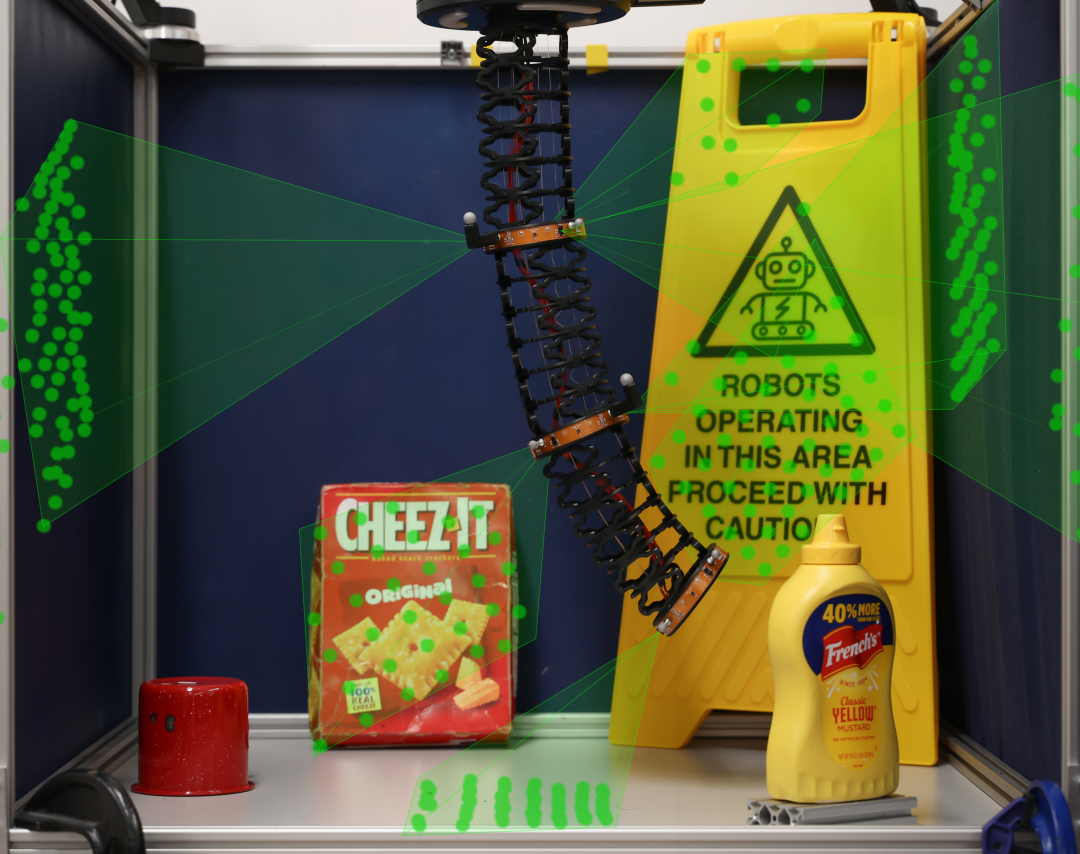
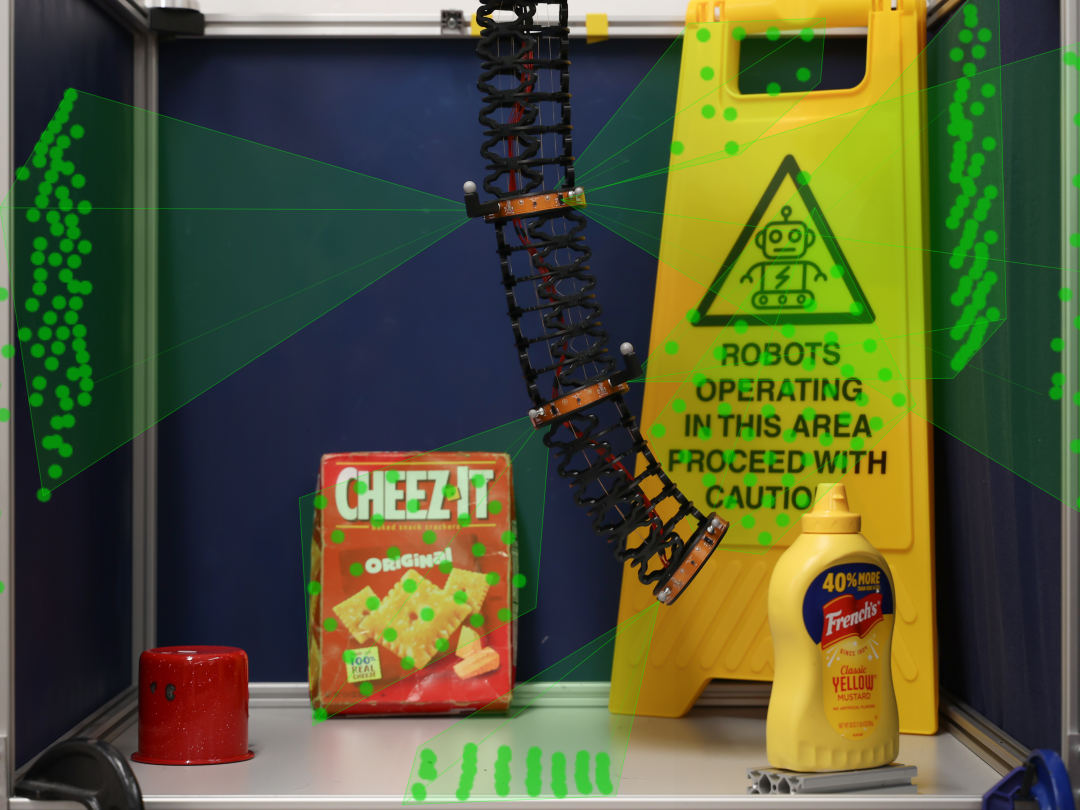
Changes

diff --git a/src/components/Banner.tsx b/src/components/Banner.tsx
@@ -35,7 +35,6 @@ export const Banner = () => {
                         sx={{ mt: 4, width: { xs: 1, sm: 'auto' } }}
                         variant='contained'
                         href="/cv.pdf"
-                        download
                         target="_blank"
                         startIcon={<ArticleRounded />}
                     >
@@ -76,59 +75,9 @@ export const Banner = () => {
                     About me
                 </Typography>
                 <Typography sx={{ fontSize: '1.2em', fontWeight: 100 }}>
-                    I am a fourth year PhD candidate in the <a href="http://asrl.utias.utoronto.ca/" target="_blank" rel="noopener noreferrer">Autonomous Space Robotics Lab</a> and the <a href="https://crl.utm.utoronto.ca/" target="_blank" rel="noopener noreferrer">Continuum Robotics Lab</a> at the University of Toronto, supervised jointly by Professors Timothy D. Barfoot and Jessica Burgner-Kahrs. My research currently focuses on probabilistic state estimation methods for continuum robots. My goal is to enable practical use of continuum robots in real world applications through the effective estimation and utilization of modelling uncertainties. 
+                    I am a PhD candidate in the <a href="http://asrl.utias.utoronto.ca/" target="_blank" rel="noopener noreferrer">Autonomous Space Robotics Lab</a> and the <a href="https://crl.utm.utoronto.ca/" target="_blank" rel="noopener noreferrer">Continuum Robotics Lab</a> at the University of Toronto, supervised jointly by Professors Timothy D. Barfoot and Jessica Burgner-Kahrs. My research currently focuses on probabilistic state estimation methods for continuum robots. My goal is to enable practical use of continuum robots in real world applications through the effective estimation and utilization of modelling uncertainties. 
                 </Typography>
-                {/* <Box textAlign='center' my={4}>
-                    <Button variant='outlined' startIcon={<Person />} endIcon={<ExpandMore />} onClick={() => setShowAbout(true)} size="large">
-                        My story
-                    </Button>
-                </Box> */}
             </Box>
-            {/* <Dialog fullWidth maxWidth='md' open={showAbout} onClose={() => setShowAbout(false)}>
-                <IconButton
-                    onClick={() => setShowAbout(false)}
-                    sx={{
-                        position: 'absolute',
-                        top: 0,
-                        right: 0,
-                        m: 1,
-                        color: t => t.palette.primary.main,
-                    }}
-                >
-                    <Close />
-                </IconButton>
-                <CardContent>
-                    <Stack spacing={2}>
-                        <Typography sx={{ fontWeight: 600 }}>
-                            Early life 
-                        </Typography>
-                        <Typography>
-                            I grew up in the small town of Steinbach, MB, in a family of eight. From a young age, I got involved in every sport under the sun; soccer, basketball, track and field, cross country, volleyball, badminton, and handtis, to name a few. I went on to continue playing volleyball competitively for 7 years, winning several provincial and national titles. While my competitive play stopped after high school graduation, I continue to play recreationally to this day.
-                        </Typography>
-                        <Typography>
-                            I have picked up several instruments throughout the years including piano, clarinet, baritone saxophone, and vocals. I sang in provincial honour choirs, regional choirs, vocal jazz groups, and chamber choirs throughout my time in high school. Earlier I played saxophone in both concert and jazz bands. 
-                        </Typography>
-                        <Typography sx={{ fontWeight: 600 }}>
-                            Undergraduate education
-                        </Typography>
-                        <Typography>
-                            I started my formal education by obtaining a BASc in Engineering Science at the University of Toronto. Throughout my undergraduate, I joined intramural and design teams. I would eventually go on to lead the Robotics Association (UTRA) as the club president where I oversaw four design teams and two outreach/learning initiatives totalling over 150 active members. We competed internationally in robotics competitions across the world.
-                        </Typography>
-                        <Typography>
-                            After my third year, I did a full year coop at Huawei Canada in the Human Machine Interaction (HMI) lab. There, I developed learning-based computer vision techniques for smart consumer devices including heads up displays and smart phones. My work aimed to improve user experience through enabling hands free control of devices.  
-                        </Typography>
-                        <Typography>
-                            I began my research career under Professor Schoellig (PhD) at the Dynamic Systems Lab at UTIAS. Working closely with Jacopo Panerati (PhD) I developed sim2real for easy simulation to real translation of controllers designed for crazyflie drones. This work has continued into what will be my first academic authorship (coming soon). In September of 2022, I began work on my undergraduate thesis under Professor Burgner-Kahrs (PhD) at the Continuum Robotics Lab. 
-                        </Typography>
-                        <Typography sx={{ fontWeight: 600 }}>
-                            Graduate studies
-                        </Typography>
-                        <Typography>
-                            I began my graduate studies as a MASc candidate at UTIAS under cosupervision of Professors Barfoot and Burgner-Kahrs. After a year of research, I transitioned into the PhD program where I continue my work on state estimation techniques for continuum robots. My research aims to enable practical use of continuum robots in real world applications, a goal I intend to pursue for the foreseeable future.
-                        </Typography>
-                    </Stack>
-                </CardContent>
-            </Dialog> */}
         </div >
     )
 }

diff --git a/src/components/Projects.tsx b/src/components/Projects.tsx
@@ -1,12 +1,30 @@
 import { Typography, Box, Container, Grid, Collapse, IconButton } from '@mui/material'
 import { past_projects, current_projects } from '@/config';
 import { ProjectCard } from './ProjectCard';
-import { useState } from 'react';
+import { useEffect, useRef, useState } from 'react';
 import ExpandMoreIcon from '@mui/icons-material/ExpandMore';
 import ExpandLessIcon from '@mui/icons-material/ExpandLess';
 
 export const Projects = () => {
     const [pastOpen, setPastOpen] = useState(false);
+    const [previewHeight, setPreviewHeight] = useState(0);
+    const collapseRef = useRef<HTMLDivElement>(null);
+
+    // Measure the distance from the top of the collapse to the bottom of the
+    // first card's image, so the closed preview shows exactly the image height.
+    useEffect(() => {
+        const root = collapseRef.current;
+        const img = root?.querySelector('img');
+        if (!root || !img) return;
+        const measure = () => {
+            const h = img.getBoundingClientRect().bottom - root.getBoundingClientRect().top;
+            if (h > 0) setPreviewHeight(h);
+        };
+        measure();
+        const observer = new ResizeObserver(measure);
+        observer.observe(img);
+        return () => observer.disconnect();
+    }, []);
 
     return (
         <Box
@@ -42,15 +60,32 @@ export const Projects = () => {
                         {pastOpen ? <ExpandLessIcon /> : <ExpandMoreIcon />}
                     </IconButton>
                 </Box>
-                <Collapse in={pastOpen}>
-                    <Grid container spacing={4}>
-                        {past_projects.map(project => (
-                            <Grid key={project.title} item xs={12} sm={6} md={4}>
-                                <ProjectCard project={project} />
-                            </Grid>
-                        ))}
-                    </Grid>
-                </Collapse>
+                <Box
+                    onClick={pastOpen ? undefined : () => setPastOpen(true)}
+                    sx={{ position: 'relative', cursor: pastOpen ? 'auto' : 'pointer' }}
+                >
+                    <Collapse in={pastOpen} collapsedSize={previewHeight} ref={collapseRef}>
+                        <Grid container spacing={4} sx={{ pointerEvents: pastOpen ? 'auto' : 'none' }}>
+                            {past_projects.map(project => (
+                                <Grid key={project.title} item xs={12} sm={6} md={4}>
+                                    <ProjectCard project={project} />
+                                </Grid>
+                            ))}
+                        </Grid>
+                    </Collapse>
+                    {/* Fade the closed preview out to the section background */}
+                    <Box
+                        sx={{
+                            position: 'absolute',
+                            top: 0, left: 0, right: 0,
+                            height: previewHeight,
+                            pointerEvents: 'none',
+                            background: t => `linear-gradient(to bottom, transparent, ${t.palette.secondary.main})`,
+                            opacity: pastOpen ? 0 : 1,
+                            transition: t => t.transitions.create('opacity'),
+                        }}
+                    />
+                </Box>
             </Container>
         </Box>
     )

diff --git a/src/components/App.tsx b/src/components/App.tsx
@@ -13,7 +13,7 @@ export const App = () => {
       <Projects />
       <Publications />
       <Typography align="center" sx={{ py: 4, fontSize: '0.8em', color: 'text.secondary' }}>
-        Last updated: September 1, 2026
+        Last updated: September 23, 2026
       </Typography>
     </AppThemeProvider>
   )

diff --git a/src/assets/publications/Teetaert2023b.md b/src/assets/publications/Teetaert2023b.md
@@ -4,4 +4,5 @@ authors: "Spencer Teetaert"
 category: talk
 year: 2023
 venue: "Workshop on Benchmarking, Reproducibility, and Open-Source Code in Controls, IEEE Conference on Decision and Control (CDC)"
+website: "https://www.dynsyslab.org/cdc-2023-workshop-on-benchmarking-reproducibility-and-open-source-code-in-controls/"
 ---

diff --git a/src/assets/publications/Teetaert2026d.md b/src/assets/publications/Teetaert2026d.md
@@ -1,6 +1,6 @@
 ---
 title: "Toward Uncertainty-Aware Intelligence in Soft Robotics"
-authors: "Spencer Teetaert [on behalf of J. Burgner-Kahrs]"
+authors: "Spencer Teetaert [on behalf of Jessica Burgner-Kahrs]"
 category: talk
 year: 2026
 month: 6
